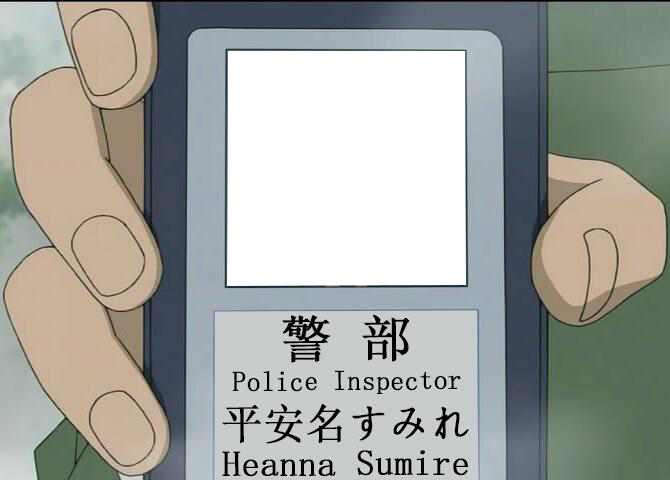
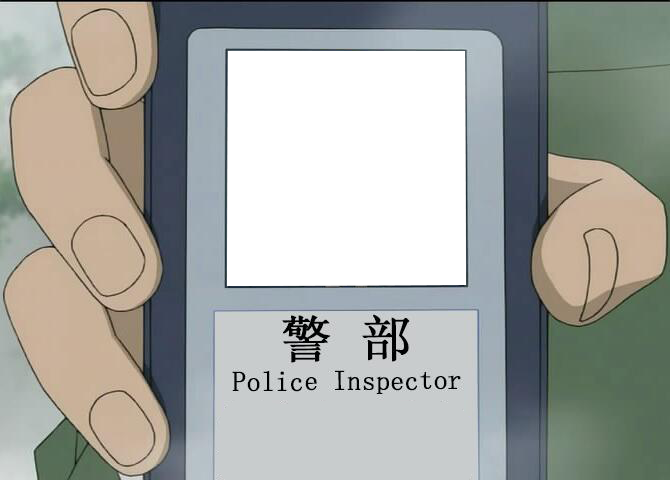
make text setable in `police` (#161)
* updata __init__.py and 0.png

* style: auto fix by pre-commit hooks

* Update __init__.py

* adjust

* update date_modified

---------

Changed region(s): [[0.3284, 0.8438, 0.6866, 1.0], [0.5373, 0.9375, 0.7164, 1.0]]

diff --git a/meme_generator/memes/police/__init__.py b/meme_generator/memes/police/__init__.py
@@ -4,14 +4,31 @@ from pathlib import Path
 from pil_utils import BuildImage
 
 from meme_generator import add_meme
+from meme_generator.exception import TextOverLength
 
 img_dir = Path(__file__).parent / "images"
 
+default_text = "平安名すみれ"
 
-def police(images: list[BuildImage], texts, args):
+
+def police(images: list[BuildImage], texts: list[str], args):
+    text = default_text if not texts else texts[0]
+    text_frame = BuildImage.new("RGBA", (250, 85))
+    try:
+        text_frame.draw_text(
+            (0, 0, 250, 85),
+            text,
+            fontname="Noto Serif SC",
+            max_fontsize=60,
+            min_fontsize=20,
+        )
+    except ValueError:
+        raise TextOverLength(text)
     img = images[0].convert("RGBA").square().resize((245, 245))
+
     frame = BuildImage.open(img_dir / "0.png")
     frame.paste(img, (224, 46), below=True)
+    frame.paste(text_frame, (220, 395), alpha=True)
     return frame.save_jpg()
 
 
@@ -32,9 +49,12 @@ add_meme(
     police,
     min_images=1,
     max_images=1,
+    max_texts=1,
+    min_texts=0,
+    default_texts=[default_text],
     keywords=["出警"],
     date_created=datetime(2022, 2, 23),
-    date_modified=datetime(2023, 2, 14),
+    date_modified=datetime(2024, 9, 6),
 )
 
 add_meme(
